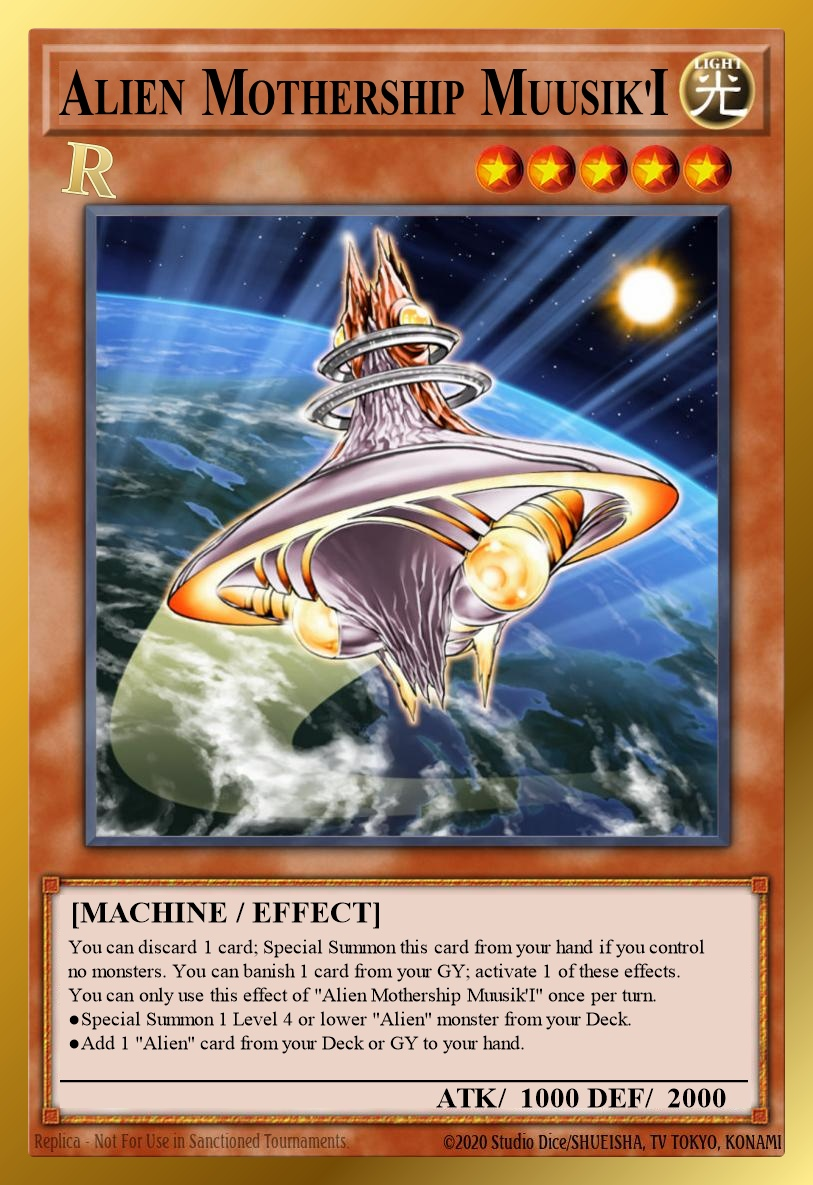
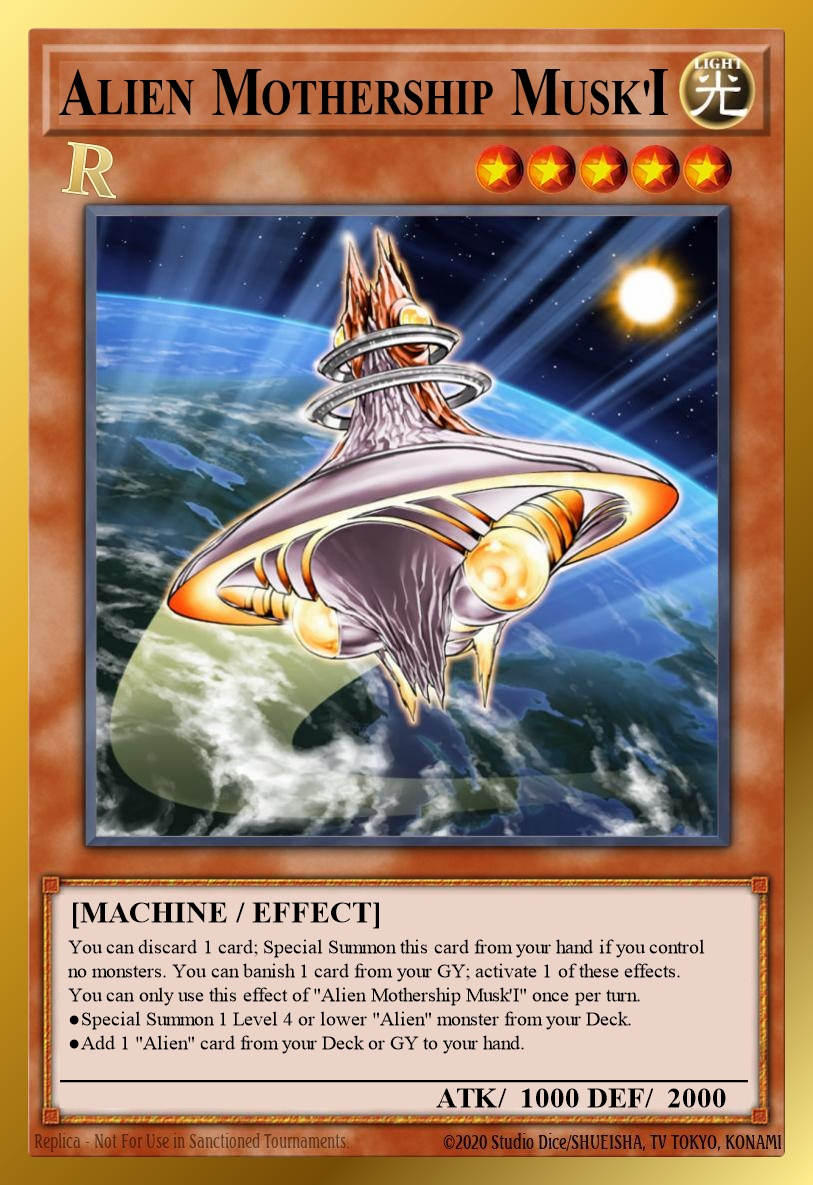
Alien Mothership Musk'I

diff --git a/Redux/scripts/build-cards-cdb.js b/Redux/scripts/build-cards-cdb.js
@@ -159,8 +159,8 @@ module.exports = function buildCardsDb({ reduxRoot }) {
   const alienMothershipMuusikiTextResult = db
     .prepare("UPDATE texts SET name = ?, desc = ?, str1 = ?, str2 = ?, str3 = ? WHERE id = ?")
     .run(
-      "Alien Mothership Muusik'I",
-      'You can discard 1 card; Special Summon this card from your hand if you control no monsters. You can banish 1 card from your GY; activate 1 of these effects. You can only use this effect of "Alien Mothership Muusik\'I" once per turn.\n●Special Summon 1 Level 4 or lower "Alien" monster from your Deck.\n●Add 1 "Alien" card from your Deck or GY to your hand.',
+      "Alien Mothership Musk'I",
+      'You can discard 1 card; Special Summon this card from your hand if you control no monsters. You can banish 1 card from your GY; activate 1 of these effects. You can only use this effect of "Alien Mothership Musk\'I" once per turn.\n●Special Summon 1 Level 4 or lower "Alien" monster from your Deck.\n●Add 1 "Alien" card from your Deck or GY to your hand.',
       "Special Summon this card from your hand",
       'Special Summon 1 Level 4 or lower "Alien" monster from your Deck',
       'Add 1 "Alien" card from your Deck or GY to your hand',
@@ -529,10 +529,10 @@ module.exports = function buildCardsDb({ reduxRoot }) {
     throw new Error("Expected to update Alien Ammonite text once");
   }
   if (Number(alienMothershipMuusikiTextResult.changes) !== 1) {
-    throw new Error("Expected to update Alien Mothership Muusik'i text once");
+    throw new Error("Expected to update Alien Mothership Musk'i text once");
   }
   if (Number(alienMothershipMuusikiSetcodeResult.changes) !== 1) {
-    throw new Error("Expected to update Alien Mothership Muusik'i setcode once");
+    throw new Error("Expected to update Alien Mothership Musk'i setcode once");
   }
   if (Number(aCellScatterBurstTextResult.changes) !== 1) {
     throw new Error('Expected to update "A" Cell Scatter Burst text once');

diff --git a/Redux/scripts/card-name-changes.js b/Redux/scripts/card-name-changes.js
@@ -4,7 +4,7 @@
 module.exports = new Set([
   68638985, // Frog the Jam (was Slime Toad / FROG THE JAM)
   73262676, // Alien "A" Cell Scatter Burst
-  97697678, // Alien Mothership Muusik'I
+  97697678, // Alien Mothership Musk'I
   99342953, // Alien Code A Ancient Ruins
   96875080, // Alien Orbital Bombardment
   24082387, // Alien Crop Circles

diff --git a/Redux/scripts/redux-errata-passcodes.js b/Redux/scripts/redux-errata-passcodes.js
@@ -50,7 +50,7 @@ module.exports = {
     62437709, // Alien Grey
     15475415, // Alien Dog
     652362, // Alien Ammonite
-    97697678, // Alien Mothership Muusik'i
+    97697678, // Alien Mothership Musk'i
     73262676, // "A" Cell Scatter Burst
     99342953, // Code A Ancient Ruins
     96875080, // Orbital Bombardment

diff --git a/README.md b/README.md
@@ -83,7 +83,7 @@ Redux Limits: `0` = forbidden; `1` = limited; `2` = semi-limited; `3` = unlimite
 | `3` [Alien Hunter](https://yugioh.fandom.com/wiki/Alien_Hunter) | 🔄 Main Phase GY summon by bottom-decking Alien from hand and banishing 2 GY cards; hard once per turn; can draw and give A-Counter on non-Alien card |
 | `3` [Alien Mass Hypnosis](https://yugioh.fandom.com/wiki/Mass_Hypnosis) | 🔄 Counts as Alien; controls up to 2 A-Counter monsters; they deal no battle damage; shared Alien GY effect flips 1 card face-down |
 | `3` [Alien Mother](https://yugioh.fandom.com/wiki/Alien_Mother) | 🔄 Summons itself with A-Counters; steals battle-destroyed A-Counter monsters; protects itself |
-| `3` [Alien Mothership Muusik'I](https://yugioh.fandom.com/wiki/Flying_Saucer_Muusik%27i) | 🔄 Counts as Alien; discards to summon itself; banish from GY to summon or search Alien |
+| `3` [Alien Mothership Musk'I](https://yugioh.fandom.com/wiki/Flying_Saucer_Muusik%27i) | 🔄 Counts as Alien; discards to summon itself; banish from GY to summon or search Alien |
 | `3` [Alien Mysterious Triangle](https://yugioh.fandom.com/wiki/Mysterious_Triangle) | 🔄 Counts as Alien |
 | `3` [Alien Orbital Bombardment](https://yugioh.fandom.com/wiki/Orbital_Bombardment) | 🔄 Counts as Alien; costs an Alien; bottom-decks any field card; shared Alien GY effect gives 1 A-Counter on non-Alien card |
 | `3` [Alien Otherworld - The "A" Zone](https://yugioh.fandom.com/wiki/Otherworld_-_The_%22A%22_Zone) | 🔄 Counts as Alien |
@@ -161,7 +161,7 @@ Redux Limits: `0` = forbidden; `1` = limited; `2` = semi-limited; `3` = unlimite
 | [Alien Grey](https://yugioh.fandom.com/wiki/Alien_Grey) | 3 | `3` | 3 | 🔄 |
 | [Alien Hunter](https://yugioh.fandom.com/wiki/Alien_Hunter) | 3 | `3` | 3 | 🔄 |
 | [Alien Mother](https://yugioh.fandom.com/wiki/Alien_Mother) | 3 | `3` | 3 | 🔄 |
-| [Alien Mothership Muusik'I](https://yugioh.fandom.com/wiki/Flying_Saucer_Muusik%27i) | 3 | `3` | 3 | 🔄 |
+| [Alien Mothership Musk'I](https://yugioh.fandom.com/wiki/Flying_Saucer_Muusik%27i) | 3 | `3` | 3 | 🔄 |
 | [Alien Overlord](https://yugioh.fandom.com/wiki/Alien_Overlord) | 3 | `3` | 3 | 🔄 |
 | [Alien Shocktrooper](https://yugioh.fandom.com/wiki/Alien_Shocktrooper) | 3 | `3` | 3 | 🔄 |
 | [Alien Warrior](https://yugioh.fandom.com/wiki/Alien_Warrior) | 3 | `3` | 3 | ⬆ |
